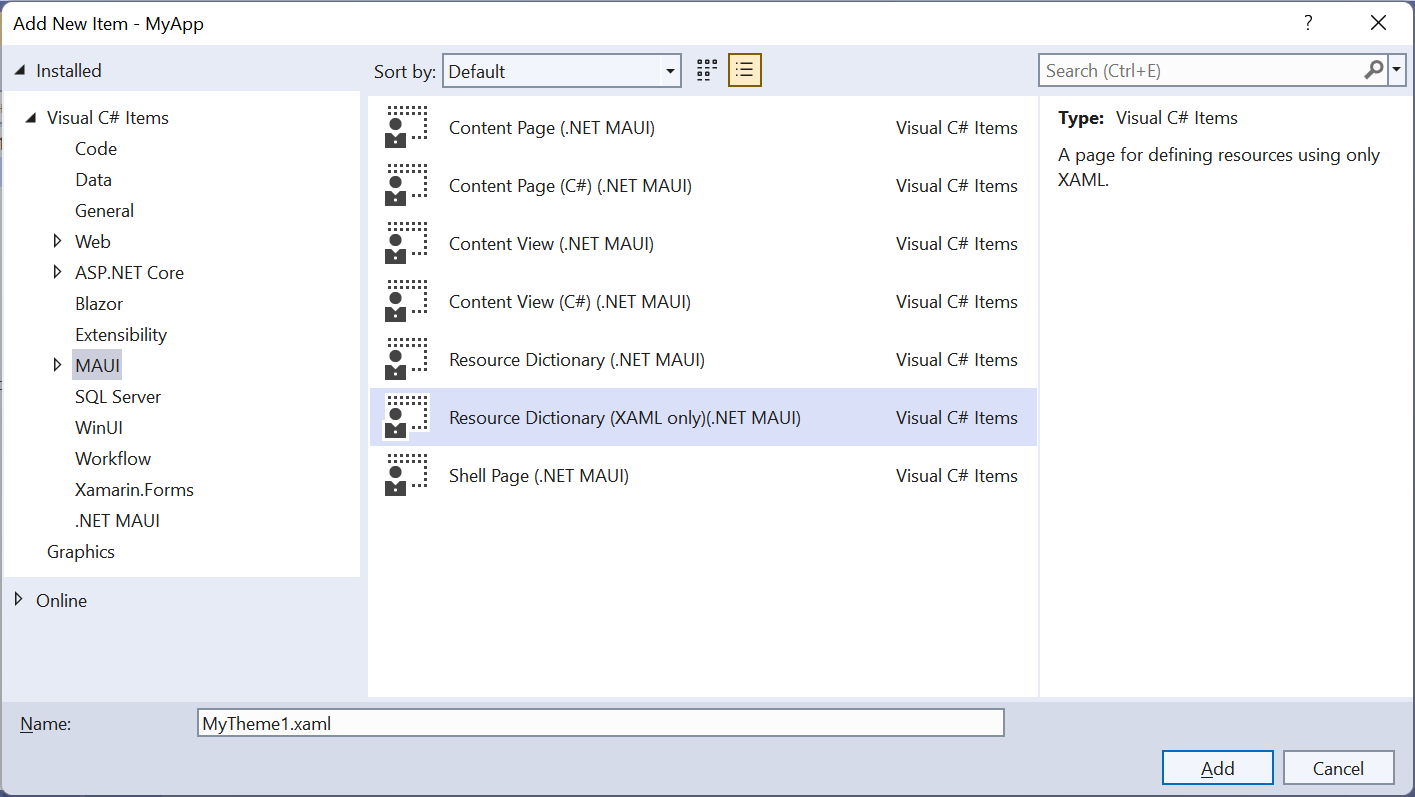
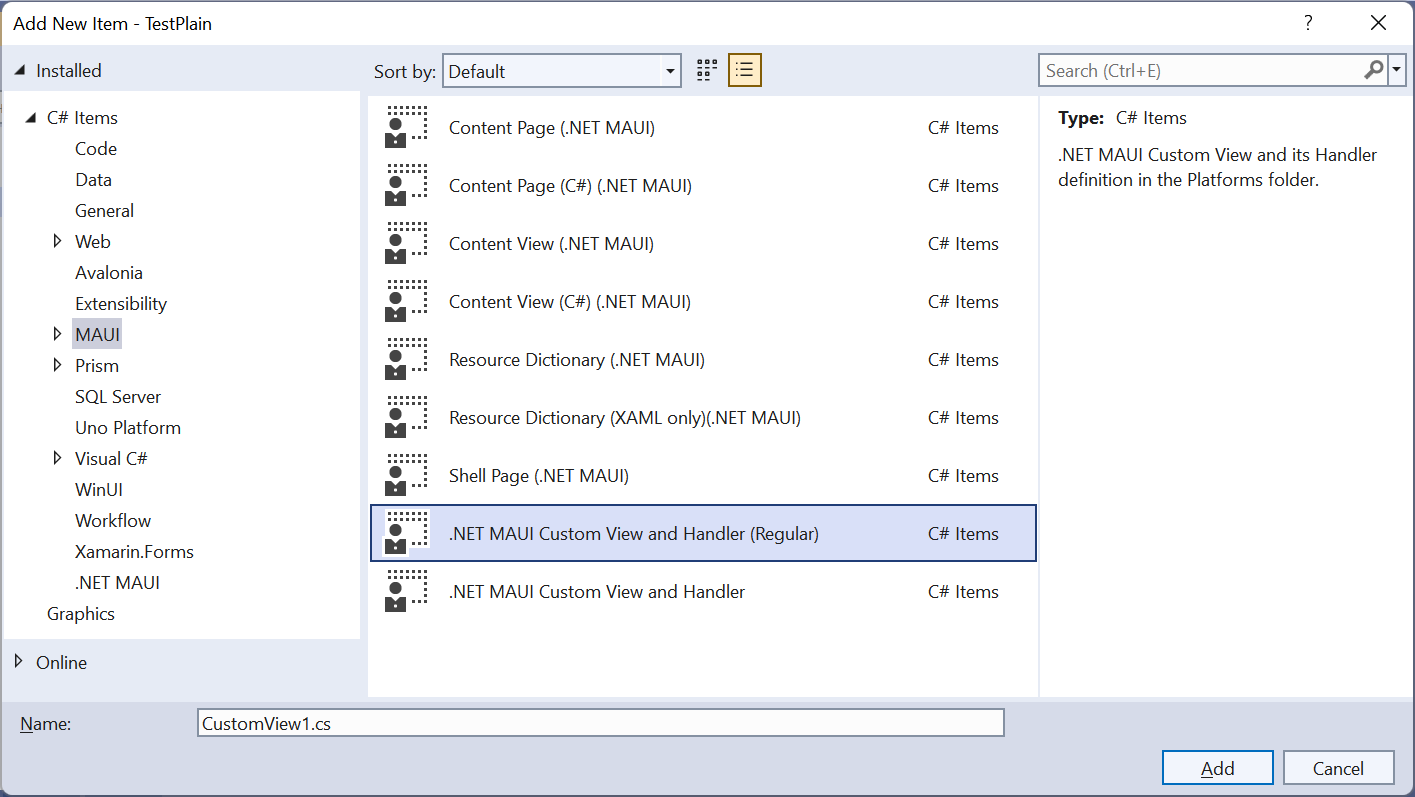
Documentation update

diff --git a/README.md b/README.md
@@ -39,7 +39,11 @@ And has Item Templates for:
 * Resource Dictionary (.NET MAUI)
 * Resource Dictionary (XAML only)(.NET MAUI)
 * Shell Page (.NET MAUI)
+* .NET MAUI Custom View and Handler (Regular)
+  - Handler definitions generated in the Platforms folder
 * .NET MAUI Custom View and Handler
+  - Handler definitions generated in the same folder in conditional compilation format
+  - For this to work properly, ensure conditional compilation is enabled (mentioned in detail [here](#conditional-compilation))
 
 Now VS2022 extension is loaded with 25+ C# and XAML Code Snippets.
 
@@ -110,6 +114,8 @@ In .NET CLI, all of these templates takes two parameters:
 
 Both .NET MAUI *App* and *Class Library* templates take the below optional Boolean parameters to include the officially supported CommunityToolkit NuGet packages:
 
+##### Conditional Compilation
+
 And now conditional compilation can be configured so that platform source files can be defined anywhere in the project provided they follow a naming convention as mentioned below.
 
 This will allow maintaining related source files in the same place, especially MAUI Handlers.
@@ -120,6 +126,50 @@ This will allow maintaining related source files in the same place, especially M
 * \*.MacCatalyst.cs - Files specific to MacCatalyst
 * \*.Tizen.cs - Files specific to Tizen
 * \*.Windows.cs - Files specific to Windows
+
+For existing projects, add this block of code in the project file (.csproj). _This can affect the existing behaviour so take due care must be taken while doing so._
+
+```xml
+<ItemGroup Condition="'$(TargetFramework)' != 'net6.0'">
+	<Compile Remove="**\*.Standard.cs" />
+	<None Include="**\*.Standard.cs" Exclude="$(DefaultItemExcludes);$(DefaultExcludesInProjectFolder)" />
+</ItemGroup>
+
+<ItemGroup Condition="$([MSBuild]::GetTargetPlatformIdentifier('$(TargetFramework)')) != 'ios' AND $([MSBuild]::GetTargetPlatformIdentifier('$(TargetFramework)')) != 'maccatalyst'">
+	<Compile Remove="**\*.iOS.cs" />
+	<None Include="**\*.iOS.cs" Exclude="$(DefaultItemExcludes);$(DefaultExcludesInProjectFolder)" />
+	<Compile Remove="**\iOS\**\*.cs" />
+	<None Include="**\iOS\**\*.cs" Exclude="$(DefaultItemExcludes);$(DefaultExcludesInProjectFolder)" />
+</ItemGroup>
+
+<ItemGroup Condition="$([MSBuild]::GetTargetPlatformIdentifier('$(TargetFramework)')) != 'android'">
+	<Compile Remove="**\*.Android.cs" />
+	<None Include="**\*.Android.cs" Exclude="$(DefaultItemExcludes);$(DefaultExcludesInProjectFolder)" />
+	<Compile Remove="**\Android\**\*.cs" />
+	<None Include="**\Android\**\*.cs" Exclude="$(DefaultItemExcludes);$(DefaultExcludesInProjectFolder)" />
+</ItemGroup>
+
+<ItemGroup Condition="$([MSBuild]::GetTargetPlatformIdentifier('$(TargetFramework)')) != 'maccatalyst'">
+	<Compile Remove="**\*.macOS.cs" />
+	<None Include="**\*.macOS.cs" Exclude="$(DefaultItemExcludes);$(DefaultExcludesInProjectFolder)" />
+	<Compile Remove="**\MacCatalyst\**\*.cs" />
+	<None Include="**\MacCatalyst\**\*.cs" Exclude="$(DefaultItemExcludes);$(DefaultExcludesInProjectFolder)" />
+</ItemGroup>
+
+<ItemGroup Condition="$([MSBuild]::GetTargetPlatformIdentifier('$(TargetFramework)')) != 'tizen'">
+	<Compile Remove="**\*.Tizen.cs" />
+	<None Include="**\*.Tizen.cs" Exclude="$(DefaultItemExcludes);$(DefaultExcludesInProjectFolder)" />
+	<Compile Remove="**\Tizen\**\*.cs" />
+	<None Include="**\Tizen\**\*.cs" Exclude="$(DefaultItemExcludes);$(DefaultExcludesInProjectFolder)" />
+</ItemGroup>
+
+<ItemGroup Condition="$([MSBuild]::GetTargetPlatformIdentifier('$(TargetFramework)')) != 'windows'">
+	<Compile Remove="**\*.Windows.cs" />
+	<None Include="**\*.Windows.cs" Exclude="$(DefaultItemExcludes);$(DefaultExcludesInProjectFolder)" />
+	<Compile Remove="**\Windows\**\*.cs" />
+	<None Include="**\Windows\**\*.cs" Exclude="$(DefaultItemExcludes);$(DefaultExcludesInProjectFolder)" />
+</ItemGroup>
+```
 
 *Specifying the parameter name, either in short or full notation, implies that it is defined.*
 
